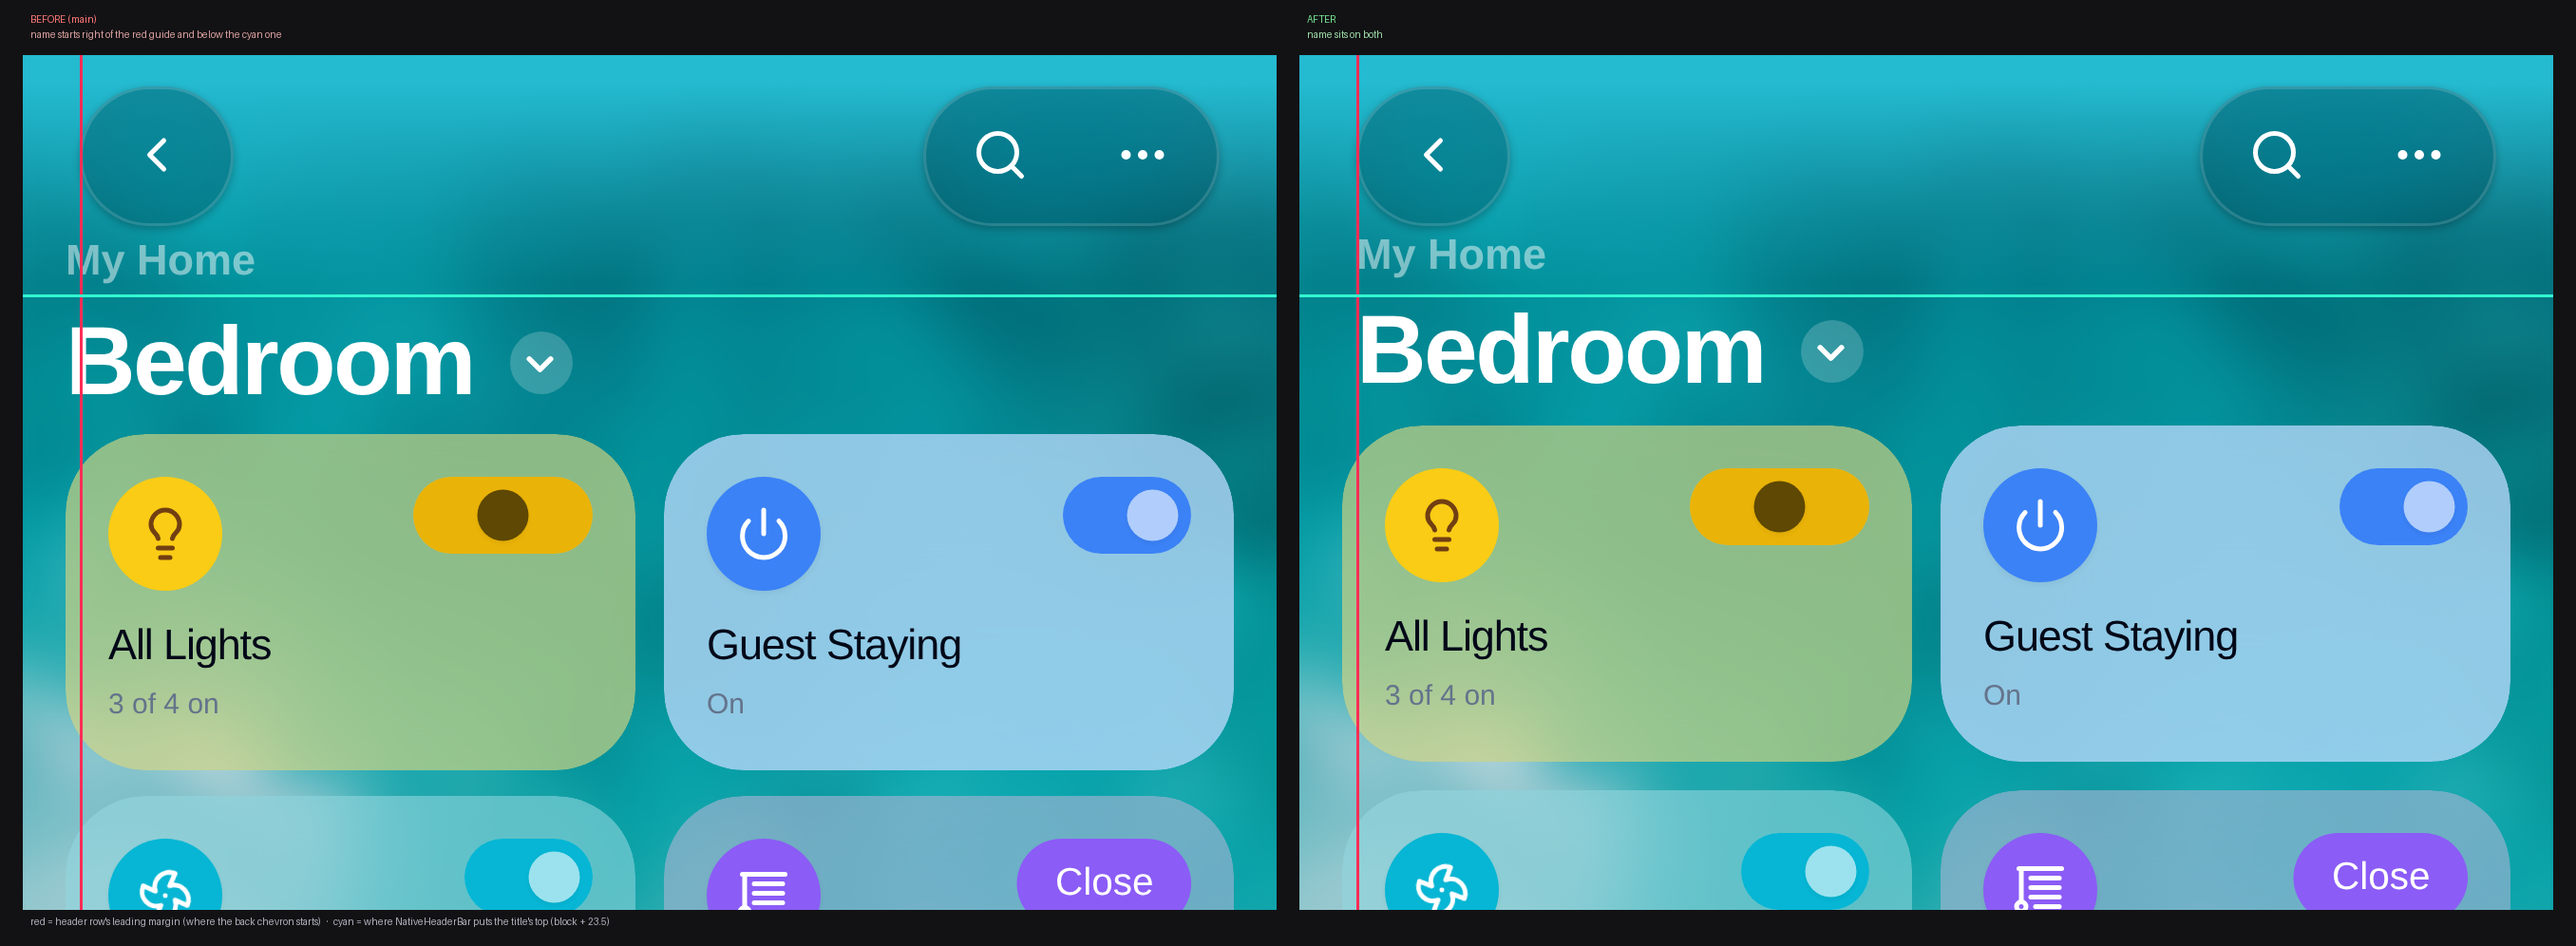
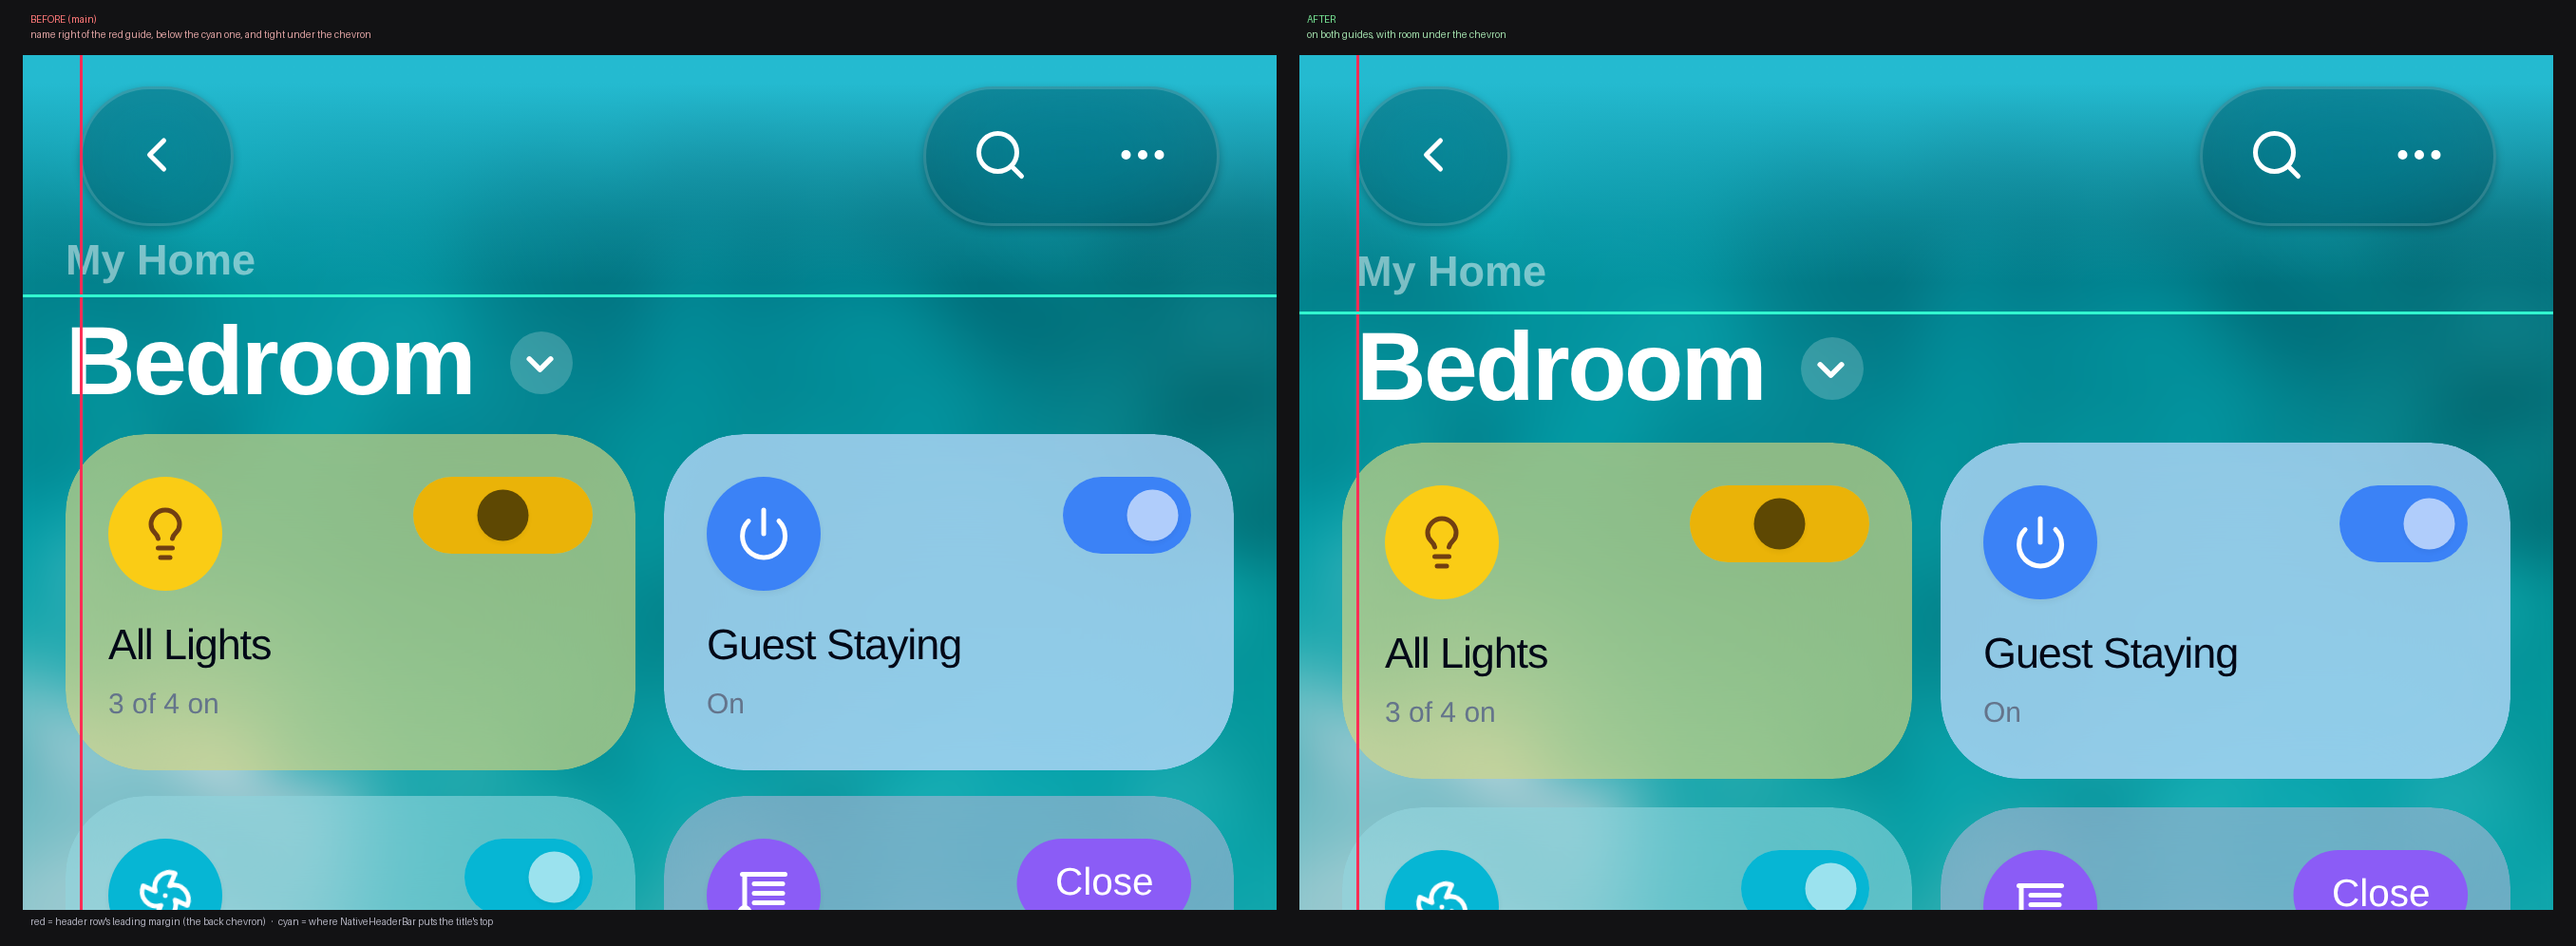
Give the heading room under the back button
Asked for on review of #219: "the gap above the 'my home' text isnt
big enough".

It was not. The heading block's top sat at 60 with the back button's
glass bottom at 59.5 — half a pixel, effectively touching — and the
vertical change before this took a further ~1.5px out of it by
tightening the path line's box. A 6px top margin puts it 6.5px clear,
which reads like the native bar at matched scale.

The margin is on the outside of the block, so the metrics the guard
pins are unchanged: eyebrow bottom 20, title 23.5..64.5, band 70.

Honest about what this number is. The three figures in the previous
commit came from NativeHeaderBar.swift's own constants and are exact.
This one is not: native's band starts at `compactInset`, which is a
runtime value, and the back button is a translucent glass control over
a wallpaper, so the reference cannot be measured off a screenshot with
any confidence — I tried three ways and they disagreed. 6px is matched
by eye against the reporter's native capture rescaled to the same
pixels, and the comparison is committed beside the before/after so the
judgement can be checked rather than taken on trust.

Claude-Session: https://claude.ai/code/session_01Vg46FGrjcNkaLJ1YFdWYeA

diff --git a/src/pages/Dashboard.tsx b/src/pages/Dashboard.tsx
@@ -9262,7 +9262,7 @@ const Dashboard = () => {
                     Only the title moves. The content below keeps the page's
                     `px-3`, which is what native does and what keeps the tile
                     grid where the reporter's two screenshots agree. */}
-                <h2 ref={headingRef} className={`font-bold ${largeHeading ? 'mb-[5.5px] text-[34px] leading-[41px] tracking-tight pl-1' : 'mb-[4px] text-base truncate'} ${nativeHeaderActive && isMobile ? 'hidden' : ''} ${isDarkBackground ? 'text-white' : 'text-muted-foreground'}`}>
+                <h2 ref={headingRef} className={`font-bold ${largeHeading ? 'mt-[6px] mb-[5.5px] text-[34px] leading-[41px] tracking-tight pl-1' : 'mb-[4px] text-base truncate'} ${nativeHeaderActive && isMobile ? 'hidden' : ''} ${isDarkBackground ? 'text-white' : 'text-muted-foreground'}`}>
                   {selectedRoomId ? (
                     (() => {
                       const parentGroup = roomGroups.find(g => g.roomIds.some(rid => rid.toLowerCase().replace(/-/g, '') === selectedRoomId.toLowerCase().replace(/-/g, '')));
